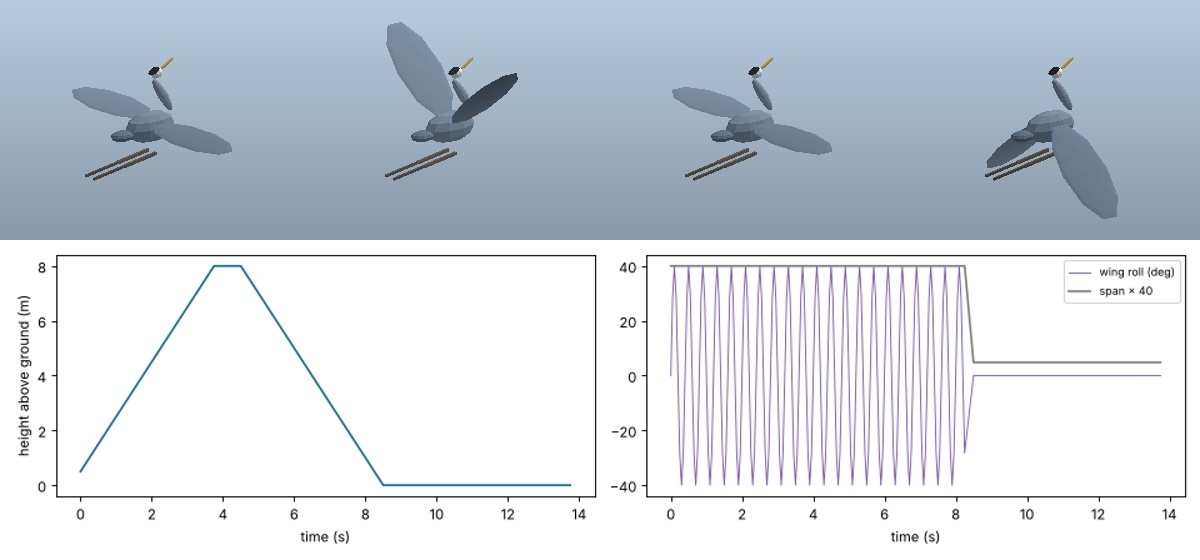
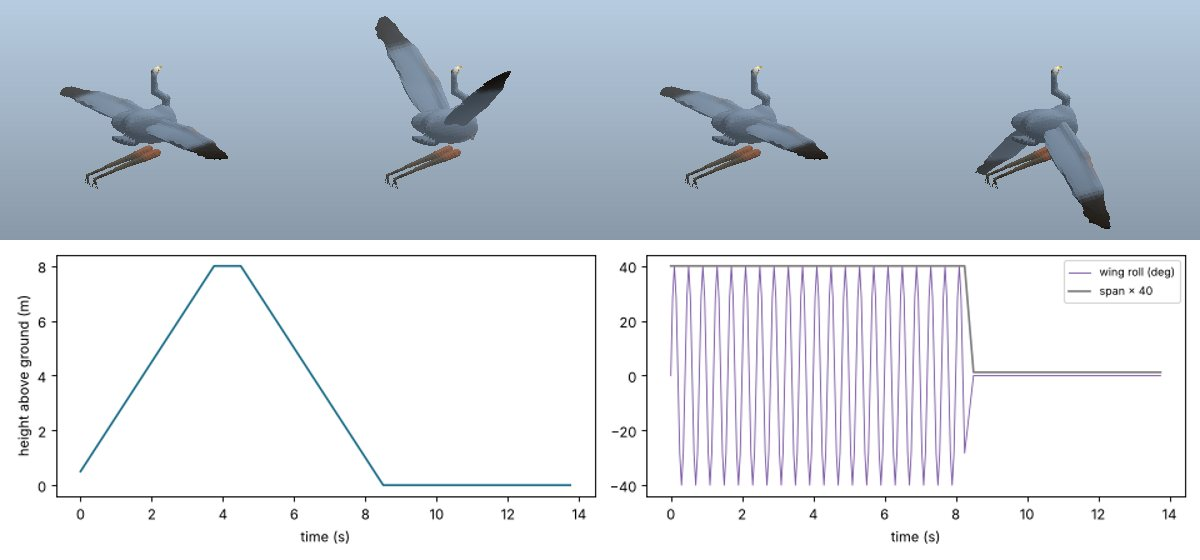
Gallery: sculpted animals in every sheet; heron flight wings with fingered primaries
fauna.jpg is a portrait grid (triangles, height) plus the to-scale lineup; gaits, poses, flight, play and the
walk scene regenerated with the sculpted bodies. Heron wings: leading-edge chain (arm, hand), broad
secondaries, four dark finger tips, pale wrist. Scenes: Monte Sano 12.4, longleaf 10.1, bayou 12.0, walk 14.7 MB.

Claude-Session: https://claude.ai/code/session_01W8T2zvuXVw2eBrrYHA5yqx

diff --git a/plandscape/fauna/anatomy.py b/plandscape/fauna/anatomy.py
@@ -538,16 +538,21 @@ def heron(rgb):
     legcol = np.array([0.32, 0.28, 0.22])
     thigh, shank, ls = _bird_leg(h, legcol, thigh_feather=np.array([0.55, 0.32, 0.2]), thigh_r=0.08, tarsus=0.19)
     wings = []
-    for side in (1.0, -1.0):   # broad wings, extended along ±y from the shoulder; dark primaries at the tip
+    for side in (1.0, -1.0):   # broad wings along ±y from the shoulder: arm, hand, fingered primaries
         w = Sculpt()
-        w.chain([(0, 0.02 * side, 0), (0.05, 0.3 * side, 0), (0.0, 0.62 * side, 0), (-0.1, 0.88 * side, 0)],
-                [0.03, 0.025, 0.018, 0.008], blue, k=0.04)
-        w.ellipsoid((-0.08, 0.45 * side, 0), (0.17, 0.42, 0.012), blue, k=0.04)
+        w.chain([(0.02, 0.02 * side, 0), (0.06, 0.32 * side, 0.01), (0.02, 0.62 * side, 0.0), (-0.06, 0.82 * side, -0.01)],
+                [0.035, 0.028, 0.02, 0.012], blue, k=0.04)                               # leading edge (arm and hand)
+        w.ellipsoid((-0.07, 0.28 * side, 0), (0.15, 0.28, 0.022), blue, k=0.05)            # secondaries, broad
+        w.ellipsoid((-0.07, 0.62 * side, 0), (0.13, 0.17, 0.018), blue * 0.9, k=0.05)      # inner primaries
+        for i, (dy, dx) in enumerate(((0.80, -0.02), (0.84, -0.07), (0.86, -0.12), (0.84, -0.17))):
+            w.ellipsoid((dx, dy * side, -0.004 * i), (0.032, 0.11, 0.008), DARK * 2.5, k=0.025,
+                        R=rot(yaw=-0.25 * side * i))                                        # finger tips
 
-        def wing_paint(P, N, C, side=side):
-            return mix(C, DARK * 2, smooth(0.6, 0.75, P[:, 1] * side) * smooth(-0.05, -0.15, P[:, 0]) +
-                       smooth(0.75, 0.85, P[:, 1] * side) * 0.8)
-        wings.append(dict(mesh=w.mesh(target=900, colour_fn=wing_paint), side=side,
+        def wing_paint(P, N, C, side=side):   # black primaries, a pale leading edge at the wrist
+            tip = smooth(0.62, 0.72, P[:, 1] * side)
+            wrist = smooth(0.03, 0.06, P[:, 0]) * smooth(0.25, 0.4, P[:, 1] * side) * smooth(0.6, 0.45, P[:, 1] * side)
+            return mix(mix(C, DARK * 2, tip * 0.85), np.array([0.6, 0.38, 0.25]), wrist * 0.5)
+        wings.append(dict(mesh=w.mesh(target=2400, colour_fn=wing_paint), side=side,
                           pivot=(0.02, 0.08 * side, h + 0.24)))
     return dict(torso=torso, head=head, neck_pivot=pv, thigh=thigh, shank=shank, ls=ls, hip=h, wings=wings,
                 graze=np.radians(105))
